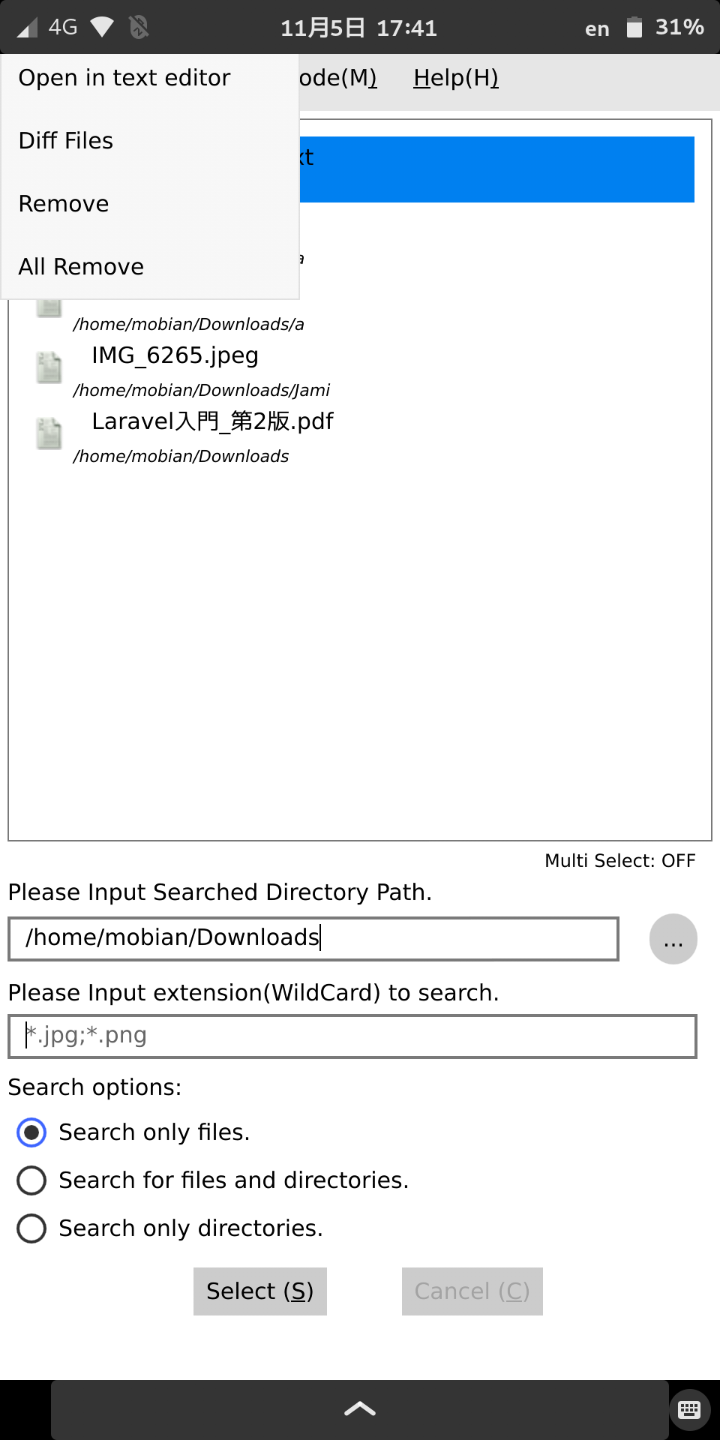
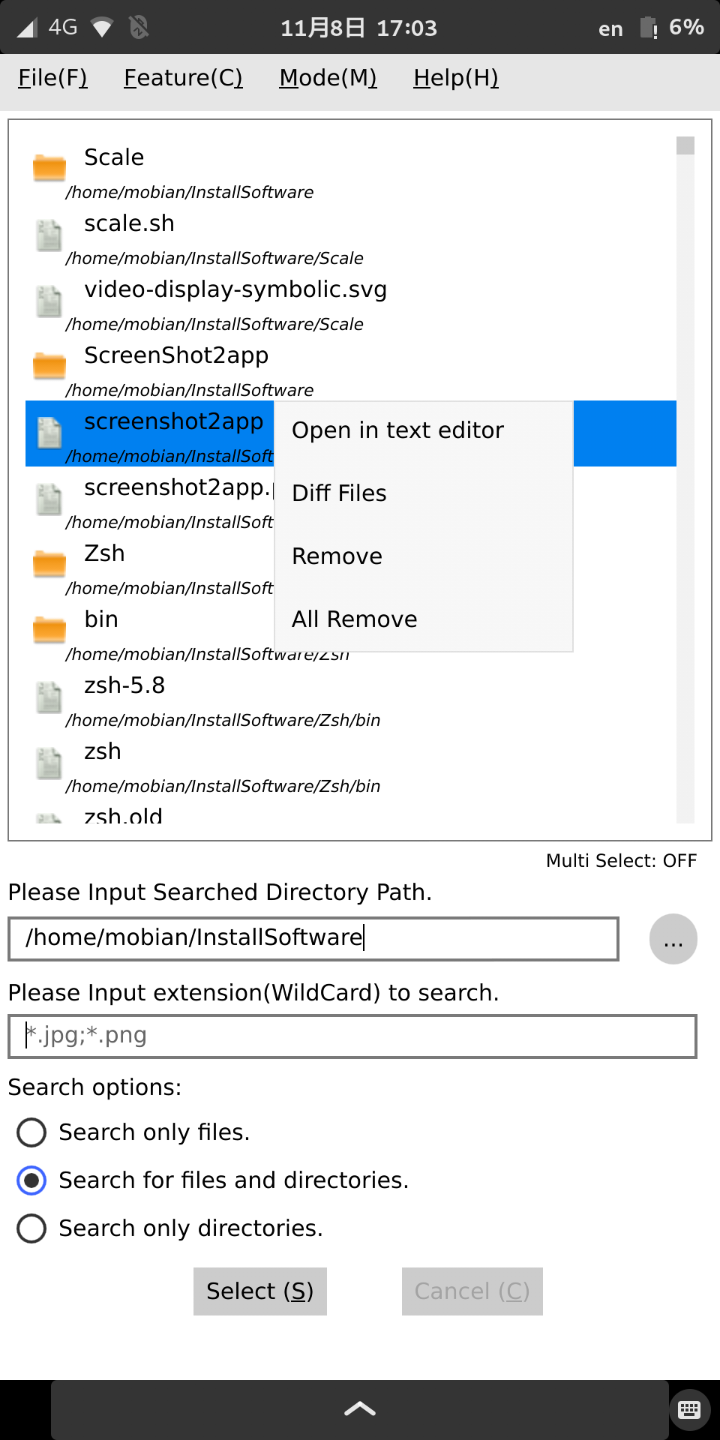
Fixed the method of prohibiting multiple launches
Fixed the method of prohibiting multiple launches and acceleration problem in the menu bar.
In addition, the reboot when changing the color mode changed to manual.

diff --git a/main.qml b/main.qml
@@ -31,7 +31,7 @@ ApplicationWindow {
     function saveApplicationState() {
         // Save window state
         let bMaximized = false
-        if(mainWindow.visibility == Window.Maximized)
+        if(mainWindow.visibility === Window.Maximized)
         {
             bMaximized = true;
         }
@@ -95,7 +95,7 @@ ApplicationWindow {
 
         // [File] Menu
         Menu {
-            title: qsTr("&File(&F)")
+            title: qsTr("File(&F)")
 
             // [Save Password] SubMenu
 //            Action {
@@ -116,7 +116,7 @@ ApplicationWindow {
 
         // [Feature] Menu
         Menu {
-            title: qsTr("&Feature(&C)")
+            title: qsTr("Feature(&I)")
 
             // [Grep] SubMenu
             Action {
@@ -135,7 +135,7 @@ ApplicationWindow {
 
         // [Mode] Menu
         Menu {
-            title: qsTr("&Mode(&M)")
+            title: qsTr("Mode(&M)")
 
             // [Save Password] SubMenu
             Action {
@@ -150,7 +150,7 @@ ApplicationWindow {
 
         // [Help] Menu
         Menu {
-            title: qsTr("&Help(&H)")
+            title: qsTr("Help(&H)")
 
             // [about GrepToolQML] SubMenu
             Action {
@@ -356,7 +356,7 @@ ApplicationWindow {
                                 mainWindowModel.setColorMode(false);
                             }
 
-                            mainWindowModel.restartSoftware();
+                            //mainWindowModel.restartSoftware();
 
                             Qt.quit();
                         }

diff --git a/mainPinePhone.qml b/mainPinePhone.qml
@@ -103,7 +103,7 @@ ApplicationWindow {
 
         // [File] Menu
         Menu {
-            title: qsTr("&File(&F)")
+            title: qsTr("File(&F)")
 
             // [Save Password] SubMenu
 //            Action {
@@ -124,7 +124,7 @@ ApplicationWindow {
 
         // [Feature] Menu
         Menu {
-            title: qsTr("&Feature(&C)")
+            title: qsTr("Feature(&I)")
 
             // [Grep] SubMenu
             Action {
@@ -159,7 +159,7 @@ ApplicationWindow {
 
         // [Mode] Menu
         Menu {
-            title: qsTr("&Mode(&M)")
+            title: qsTr("Mode(&M)")
 
             // [Save Password] SubMenu
             Action {
@@ -174,7 +174,7 @@ ApplicationWindow {
 
         // [Help] Menu
         Menu {
-            title: qsTr("&Help(&H)")
+            title: qsTr("Help(&H)")
 
             // [about GrepToolQML] SubMenu
             Action {
@@ -382,7 +382,7 @@ ApplicationWindow {
                                 mainWindowModel.setColorMode(false);
                             }
 
-                            mainWindowModel.restartSoftware();
+                            //mainWindowModel.restartSoftware();
 
                             Qt.quit();
                         }

diff --git a/CRunnable.cpp b/CRunnable.cpp
@@ -1,0 +1,96 @@
+#include <QCryptographicHash>
+#include "CRunnable.h"
+
+
+namespace
+{
+    QString generateKeyHash( const QString& key, const QString& salt )
+    {
+        QByteArray data;
+
+        data.append(key.toUtf8());
+        data.append(salt.toUtf8());
+        data = QCryptographicHash::hash(data, QCryptographicHash::Sha1).toHex();
+
+        return data;
+    }
+}
+
+
+CRunnable::CRunnable(const QString& key) : m_key(key), m_memLockKey(generateKeyHash(key, "_memLockKey")),
+                                           m_sharedmemKey(generateKeyHash(key, "_sharedmemKey")), m_sharedMem(m_sharedmemKey),
+                                           m_memLock(m_memLockKey, 1)
+{
+    m_memLock.acquire();
+    {
+        QSharedMemory fix(m_sharedmemKey);    // Fix for *nix: http://habrahabr.ru/post/173281/
+        fix.attach();
+    }
+
+    m_memLock.release();
+}
+
+
+CRunnable::~CRunnable()
+{
+    release();
+}
+
+
+bool CRunnable::isAnotherRunning()
+{
+    if (m_sharedMem.isAttached())
+    {
+        return false;
+    }
+
+    m_memLock.acquire();
+
+    const bool isRunning = m_sharedMem.attach();
+
+    if (isRunning)
+    {
+        m_sharedMem.detach();
+    }
+
+    m_memLock.release();
+
+    return isRunning;
+}
+
+
+bool CRunnable::tryToRun()
+{
+    // Extra check
+    if (isAnotherRunning())
+    {
+        return false;
+    }
+
+    m_memLock.acquire();
+
+    const bool result = m_sharedMem.create(sizeof(quint64));
+
+    m_memLock.release();
+
+    if (!result)
+    {
+        release();
+        return false;
+    }
+
+    return true;
+}
+
+
+void CRunnable::release()
+{
+    m_memLock.acquire();
+
+    if (m_sharedMem.isAttached())
+    {
+        m_sharedMem.detach();
+    }
+
+    m_memLock.release();
+}

diff --git a/main.cpp b/main.cpp
@@ -3,11 +3,21 @@
 #include <QQmlContext>
 #include <QQuickStyle>
 #include <QIcon>
+#include <iostream>
+#include "CRunnable.h"
 #include "CMainWindow.h"
 
 
 int main(int argc, char *argv[])
 {
+    // Disable multiple activation
+    CRunnable Runnable("GrepToolQML_x8waTME6UrFHCbwkf739LwWk");
+    if (!Runnable.tryToRun())
+    {
+        std::cerr << "GrepToolQML is already running." << std::endl;
+        return 0;
+    }
+
 #if QT_VERSION < QT_VERSION_CHECK(6, 0, 0)
     QApplication::setAttribute(Qt::AA_EnableHighDpiScaling);
 #endif
@@ -16,15 +26,15 @@ int main(int argc, char *argv[])
 
     QApplication::setOrganizationName("Presire");
 
+    // Disable multiple activation
     // Trying to close the Lock File, if the attempt is unsuccessful for 100 milliseconds,
     // then there is a Lock File already created by another process.
     // Therefore, we throw a warning and close the program
-    QLockFile lockFile(QDir::temp().absoluteFilePath("GrepToolQML.lock"));
-
-    if(!lockFile.tryLock(100))
-    {
-        return 1;
-    }
+//    QLockFile lockFile(QDir::temp().absoluteFilePath("GrepToolQML.lock"));
+//    if(!lockFile.tryLock(100))
+//    {
+//        return 1;
+//    }
 
     // Set GrepToolQML's Icon
     app.setWindowIcon(QIcon(":/Image/GrepToolQML.png"));

diff --git a/CRunnable.h b/CRunnable.h
@@ -1,0 +1,30 @@
+#ifndef CRUNNABLE_H
+#define CRUNNABLE_H
+
+#include <QObject>
+#include <QSharedMemory>
+#include <QSystemSemaphore>
+
+
+class CRunnable
+{
+public:
+    CRunnable(const QString& key);
+    ~CRunnable();
+
+    bool isAnotherRunning();
+    bool tryToRun();
+    void release();
+
+private:
+    const QString m_key;
+    const QString m_memLockKey;
+    const QString m_sharedmemKey;
+
+    QSharedMemory m_sharedMem;
+    QSystemSemaphore m_memLock;
+
+    Q_DISABLE_COPY(CRunnable)
+};
+
+#endif // CRUNNABLE_H

diff --git a/README.md b/README.md
@@ -96,10 +96,10 @@ Finally, click on the [Save] button.<br>
 <center><img src="HC/GrepToolQML_4.png" width="35%" height="35%" ></center><br>
 <br>
 
-To set the color mode, select [Mode] -> [Dark Mode].
+To set the color mode, select [Mode] -> [Dark Mode].<br>
 Next, press the switch to select Light (Universal Light) or Dark (Material Dark).<br>
 After changing the color mode, press the [Application Quit] button.<br>
-The software will be automatically restarted and the color mode setting will be reflected.<br>
+~~The software will be automatically restarted and the color mode setting will be reflected.~~<br>
 <center><img src="HC/GrepToolQML_5.png" width="35%" height="35%" ></center><br>
 <br>
 
